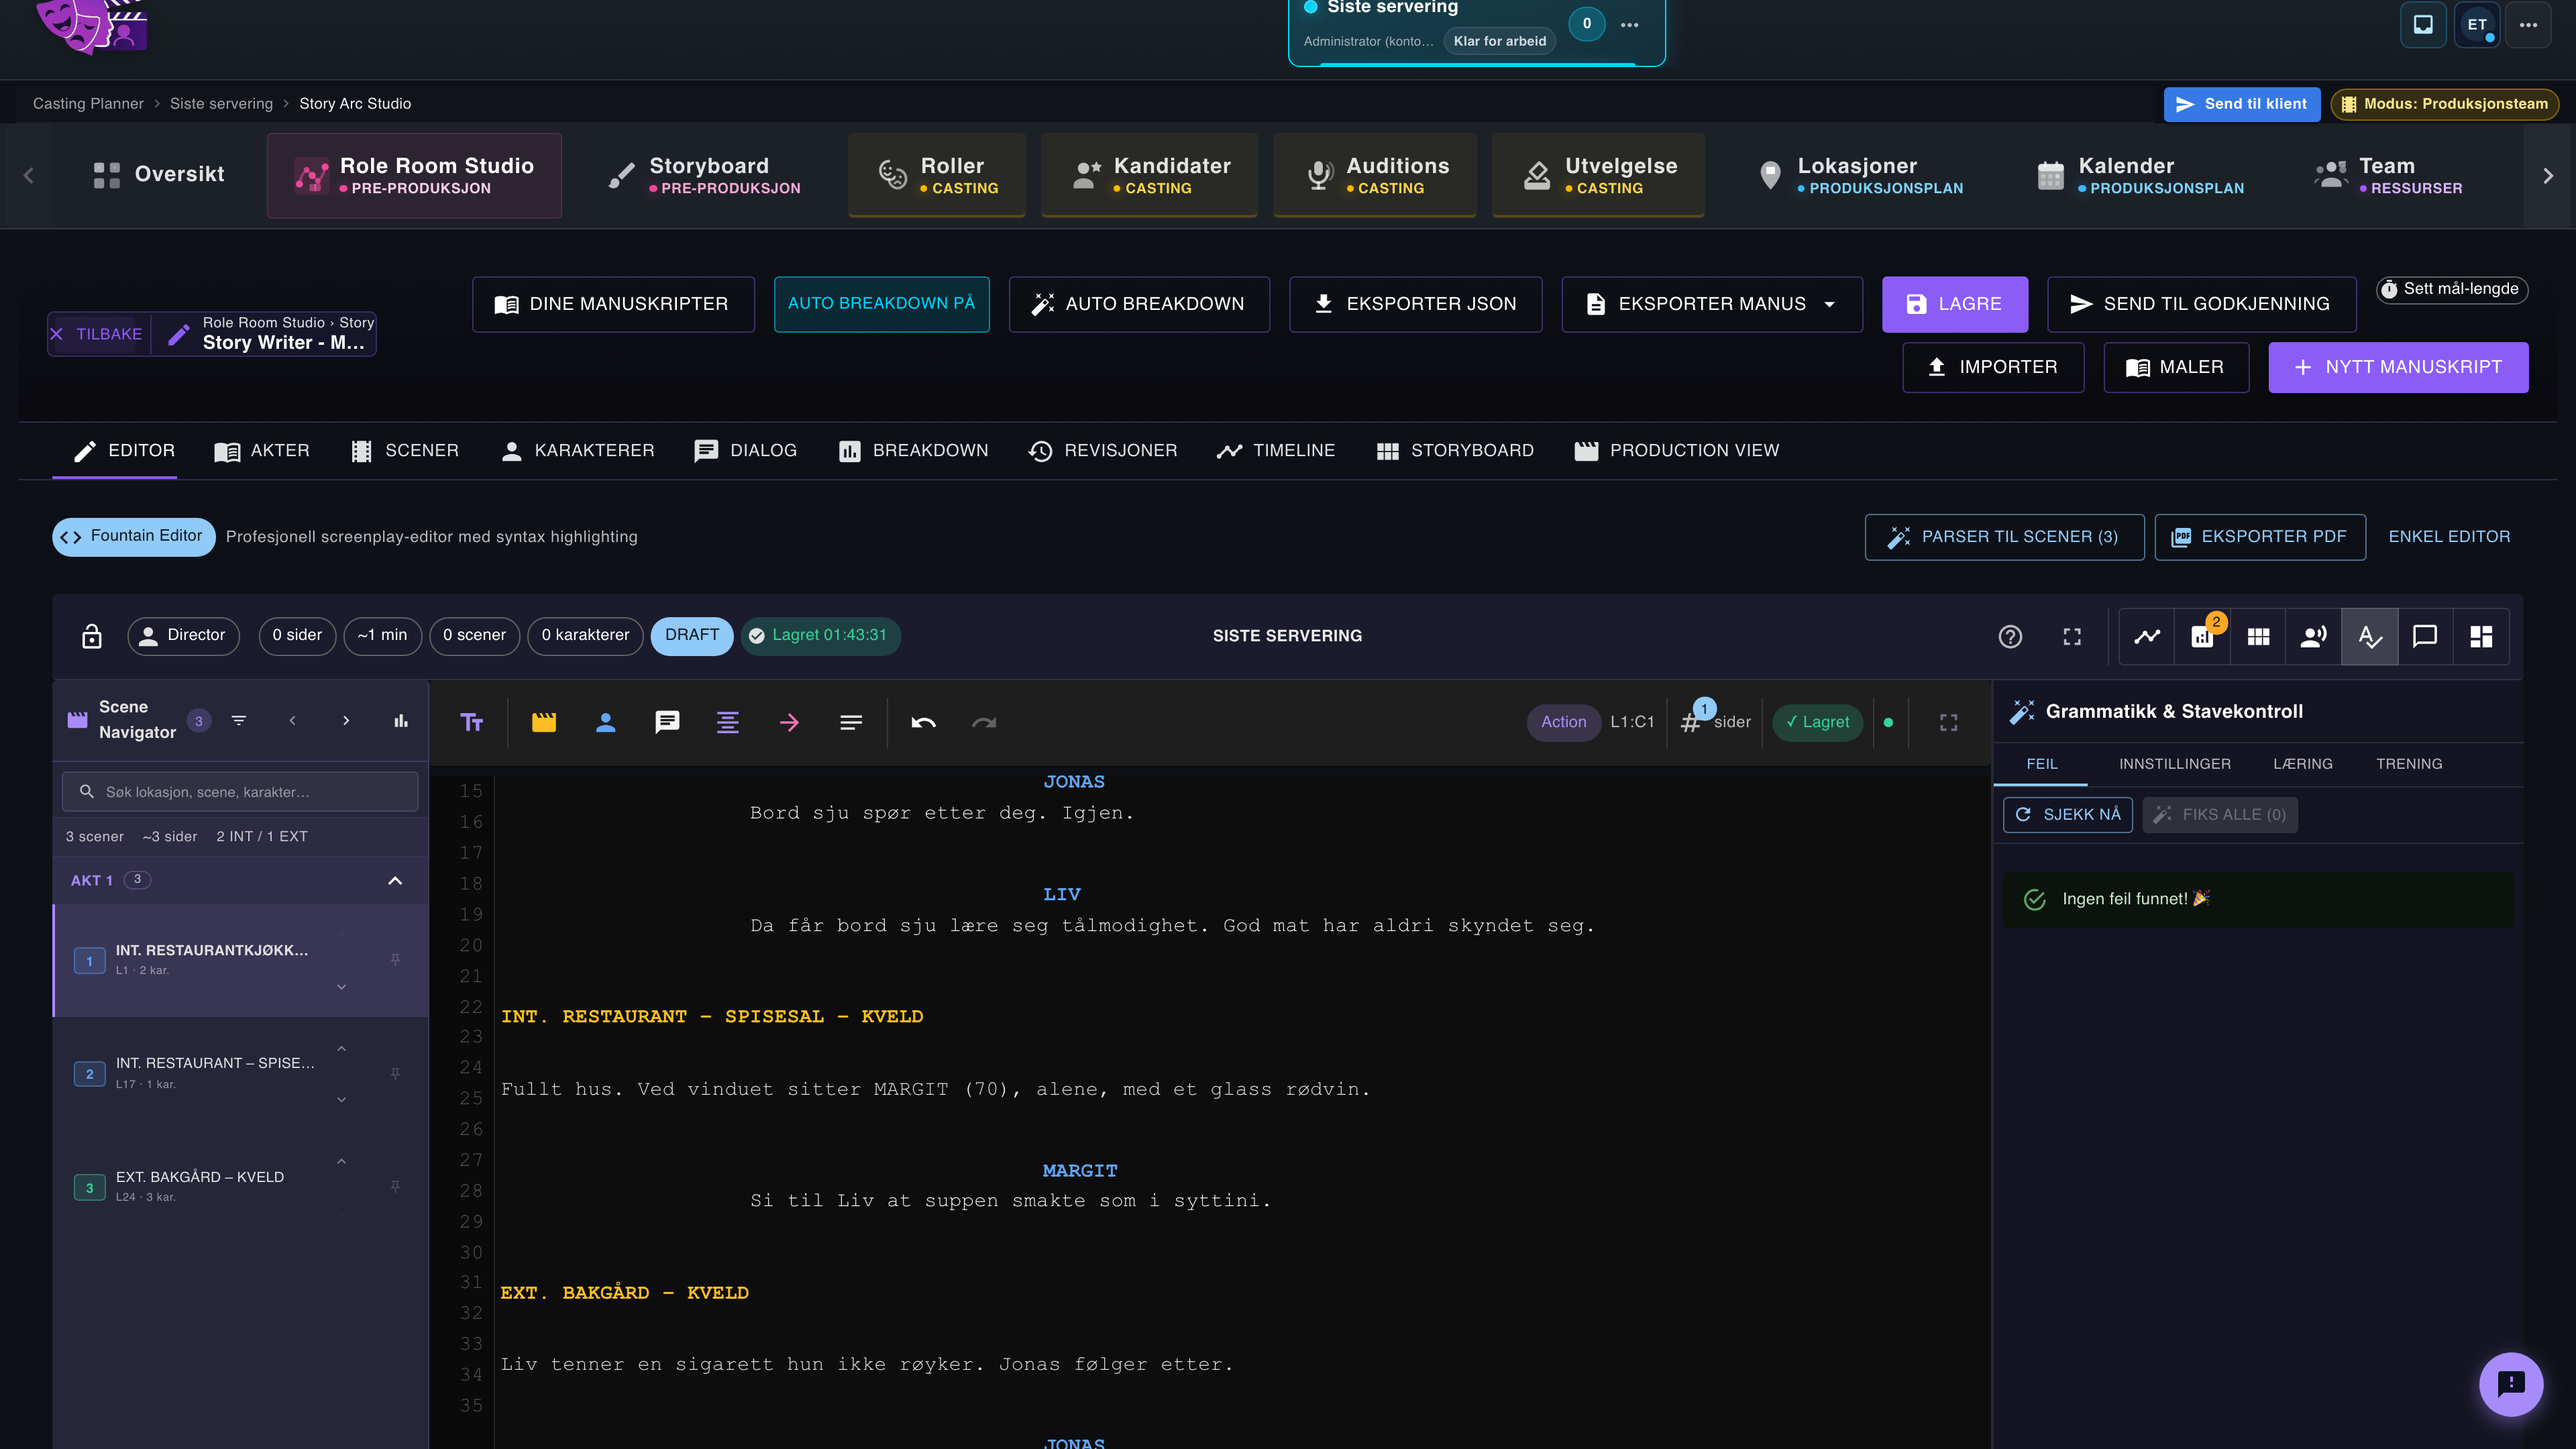
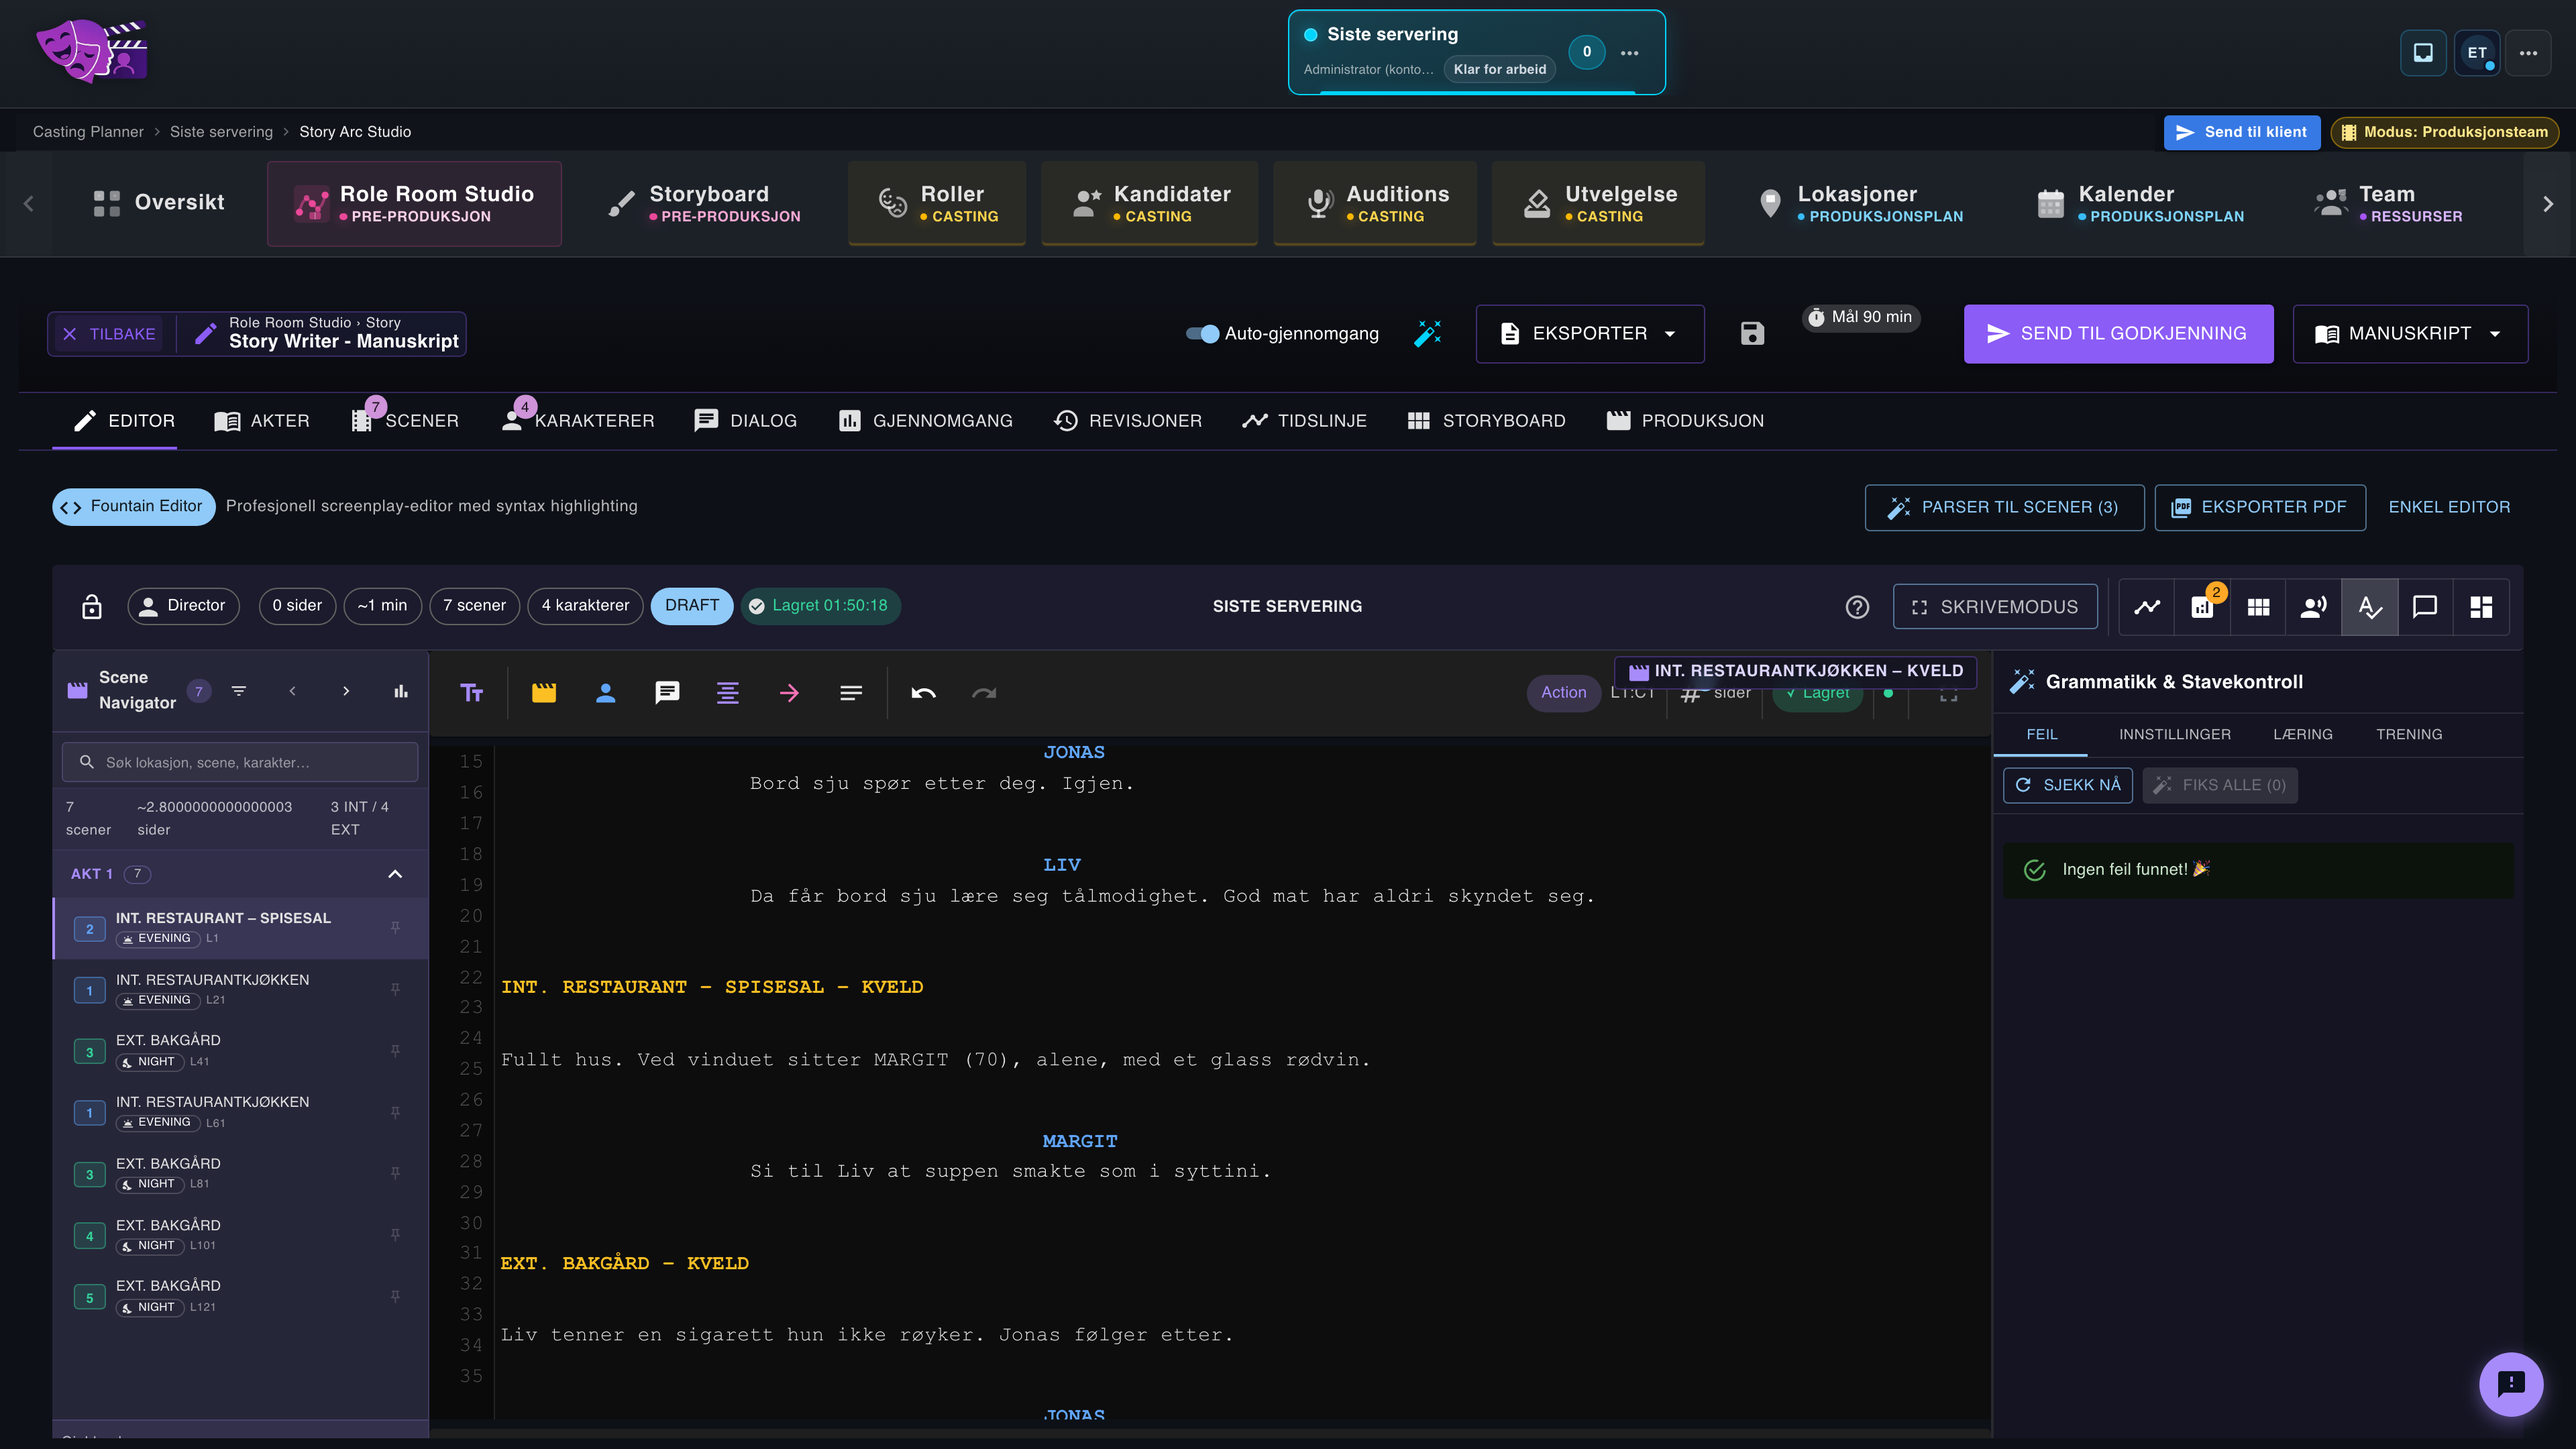
docs(role-room): oppdater guide-bilder + tekst etter UI-endringene
UI-endringene (norsk-først faner, ny toolbar, Skrivemodus, HUD) gjorde guide-
innholdet utdatert.

- Re-fanget guide-skjermbildene med dagens UI: 5 panel-bilder (beat board / analyse
  / struktur / grammatikk / table read) + oversiktsbildet. panel-batch.mjs tømmer nå
  editoren først (persistert manus appendte ellers) og fanger også oversikten.
- Guide-tekst: «Export & Fullscreen» → «Export & Skrivemodus»; beskriver nå
  «Skrivemodus»-knappen (sentrert sidebredde, chrome skjules, «Avslutt skrivemodus»/
  Esc, auto-skjul toolbar ved skrolling). Eksport-lista oppdatert (Fountain/FDX/JSON
  i Eksporter-menyen + PDF via egen knapp).

NB (ikke gjort her): hele guiden er fortsatt på ENGELSK mens appen er norsk-først —
egen lokaliseringsoppgave. guide-storyboard.png + guide-auto-create-role.png er ikke
re-fanget. Manus-analyse-panelet flagger «KLIPP TIL SVART.» som karakter (egen parser
i ScriptAnalysisPanel — norsk overgangs-eksklusjon mangler der).

diff --git a/frontend/client/src/components/role-room/components/ScreenplayGuide.tsx b/frontend/client/src/components/role-room/components/ScreenplayGuide.tsx
@@ -874,7 +874,7 @@ const STEPS: Step[] = [
   },
   {
     id: 'export',
-    label: 'Export & Fullscreen',
+    label: 'Export & Skrivemodus',
     icon: <ExportIcon fontSize="small" />,
     sections: [
       {
@@ -882,14 +882,15 @@ const STEPS: Step[] = [
         body: (
           <>
             <Typography variant="body2" sx={{ lineHeight: 1.8, mb: 1.5 }}>
-              Click the <strong>Export</strong> icon (toolbar, top-right) to download your
-              script. Export options available:
+              Click <strong>Eksporter ▾</strong> in the toolbar to download your script.
+              Formats in the menu:
             </Typography>
             <Box component="ul" sx={{ pl: 2.5 }}>
               {[
                 ['.fountain', 'Plain-text Fountain format — opens in Final Draft, Highland, etc.'],
-                ['PDF', 'Formatted screenplay PDF via ScreenplayPDFExport — maintains standard margins and fonts'],
                 ['FDX', 'Final Draft XML — for full round-trip compatibility with Final Draft'],
+                ['.json', 'Full production data — scenes, shots, storyboard and roles'],
+                ['PDF', 'Formatted screenplay PDF via the separate «Eksporter PDF» button (maintains standard margins and fonts)'],
               ].map(([fmt, desc]) => (
                 <Box key={fmt} component="li" sx={{ mb: 0.5 }}>
                   <Typography variant="body2" sx={{ lineHeight: 1.7 }}>
@@ -903,21 +904,22 @@ const STEPS: Step[] = [
         screenshotLabel: 'Export menu showing Fountain, PDF, and FDX options',
       },
       {
-        heading: 'Fullscreen writing mode',
+        heading: 'Skrivemodus (distraction-free writing)',
         body: (
           <>
             <Typography variant="body2" sx={{ lineHeight: 1.8, mb: 1.5 }}>
-              Click the <strong>⛶ Fullscreen</strong> button (available in both the editor
-              toolbar and the outer navigator) to enter a distraction-free writing mode.
-              The UI chrome disappears and only the script text and a minimal toolbar are
-              shown.
+              Click the <strong>⛶ Skrivemodus</strong> button in the editor toolbar to enter a
+              distraction-free writing mode. All surrounding chrome (project nav, tabs, toolbars)
+              disappears and the script is centred in a readable page-width column — only the
+              text and a minimal toolbar remain.
             </Typography>
             <Typography variant="body2" sx={{ lineHeight: 1.8 }}>
-              Press <Key>Escape</Key> or click the fullscreen-exit icon to return to the
-              normal layout.
+              Press <Key>Escape</Key> or click <strong>Avslutt skrivemodus</strong> to return to
+              the normal layout. (Outside skrivemodus the editor toolbar also auto-hides when you
+              scroll down, and reappears when you scroll up.)
             </Typography>
             <Callout color="#6366f1">
-              In fullscreen the background changes to a dark navy (<code>#1a1a2e</code>)
+              In skrivemodus the background changes to a dark navy (<code>#1a1a2e</code>)
               for reduced eye strain during long writing sessions.
             </Callout>
           </>
